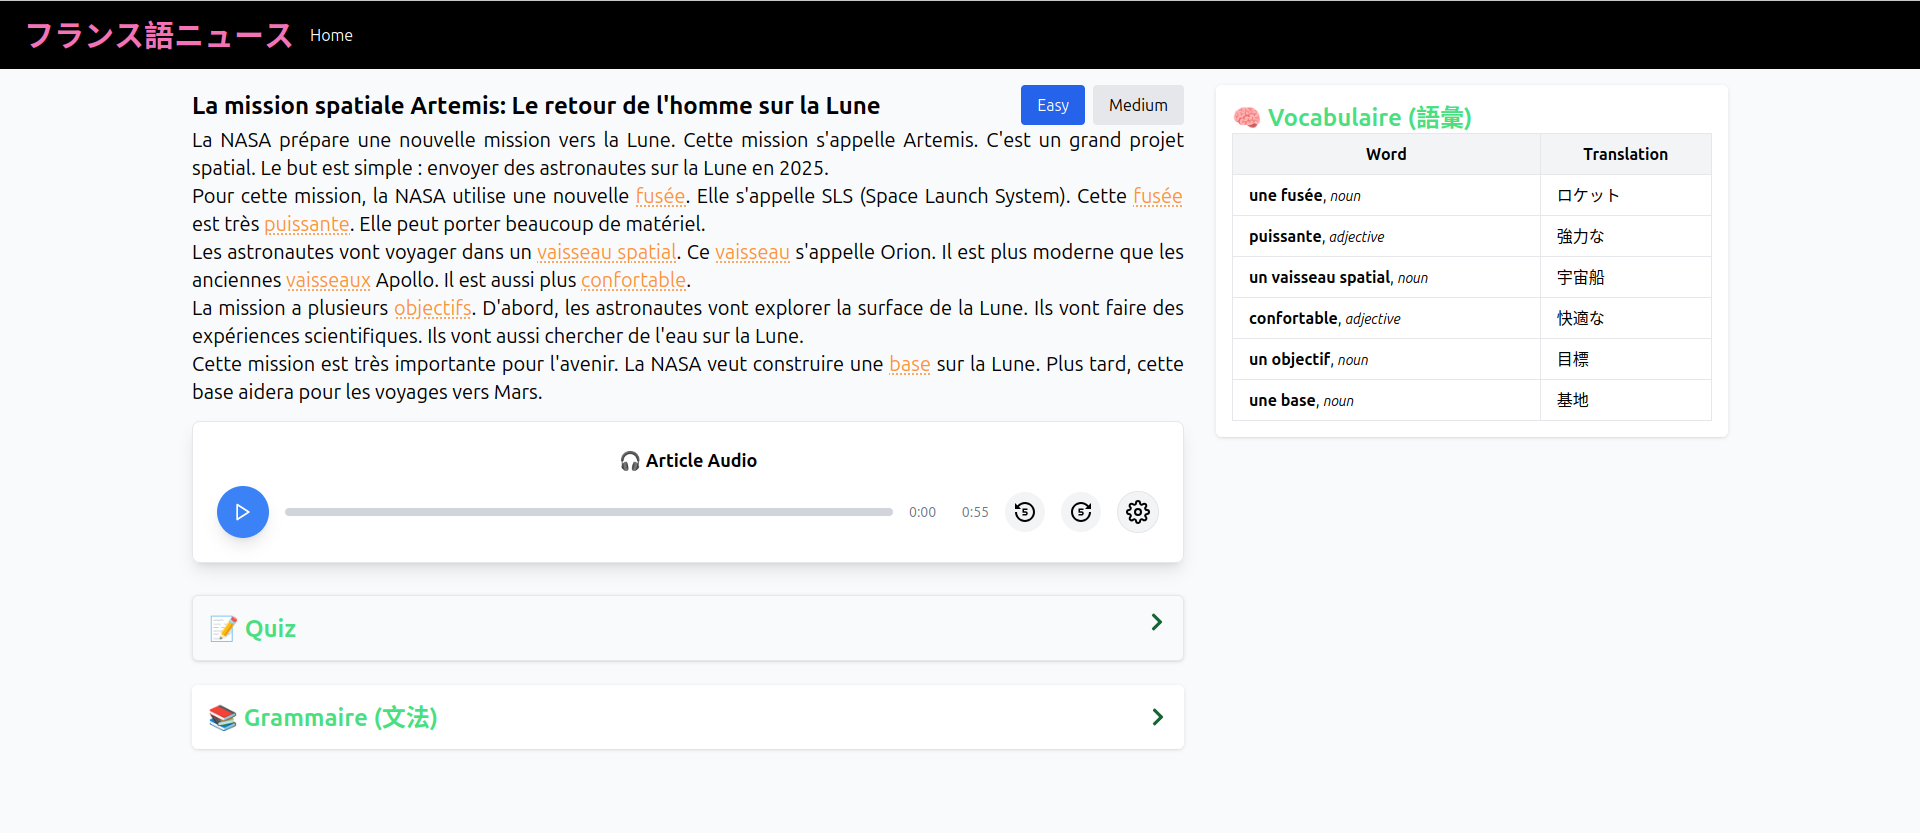
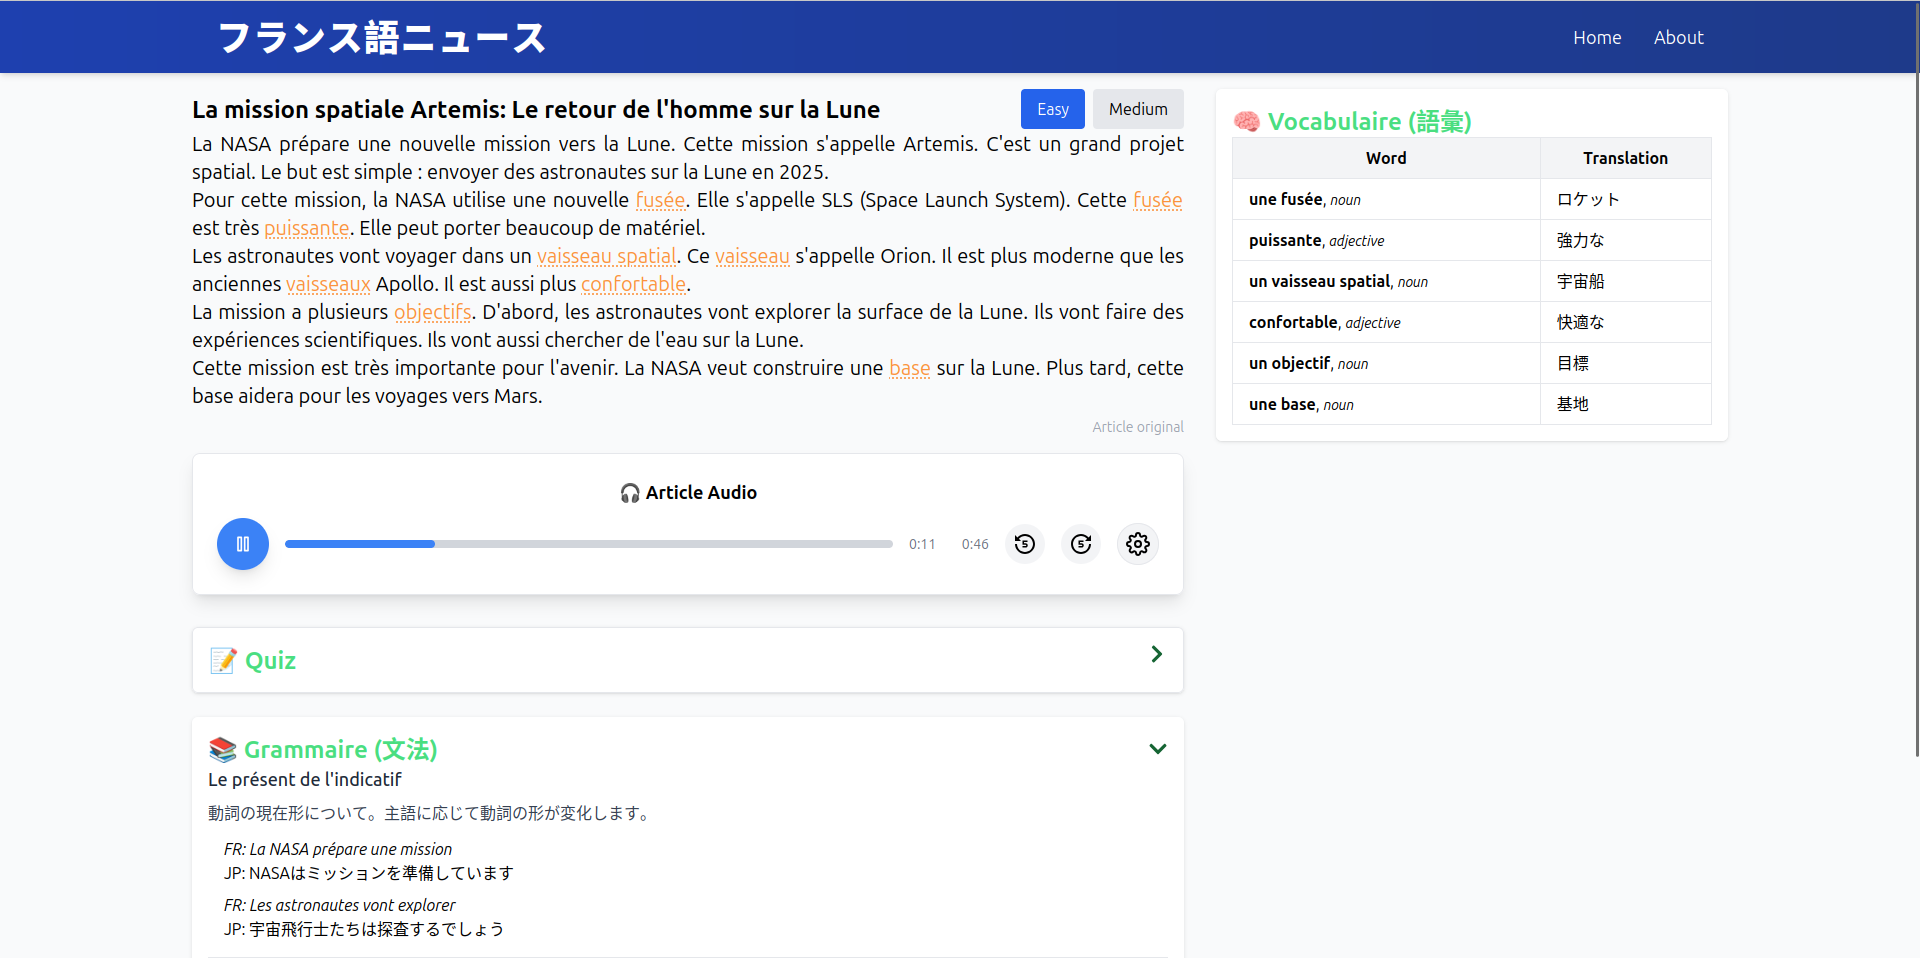
README.md

diff --git a/README.md b/README.md
@@ -54,4 +54,8 @@ The goal is to bridge the language gap by making French news more accessible and
 ---
 
 ## Screenshots
+### Article view
 ![alt text](demo-images/article.png)
+
+### Conjugation of verbs
+![alt text](demo-images/conjugation.png)
